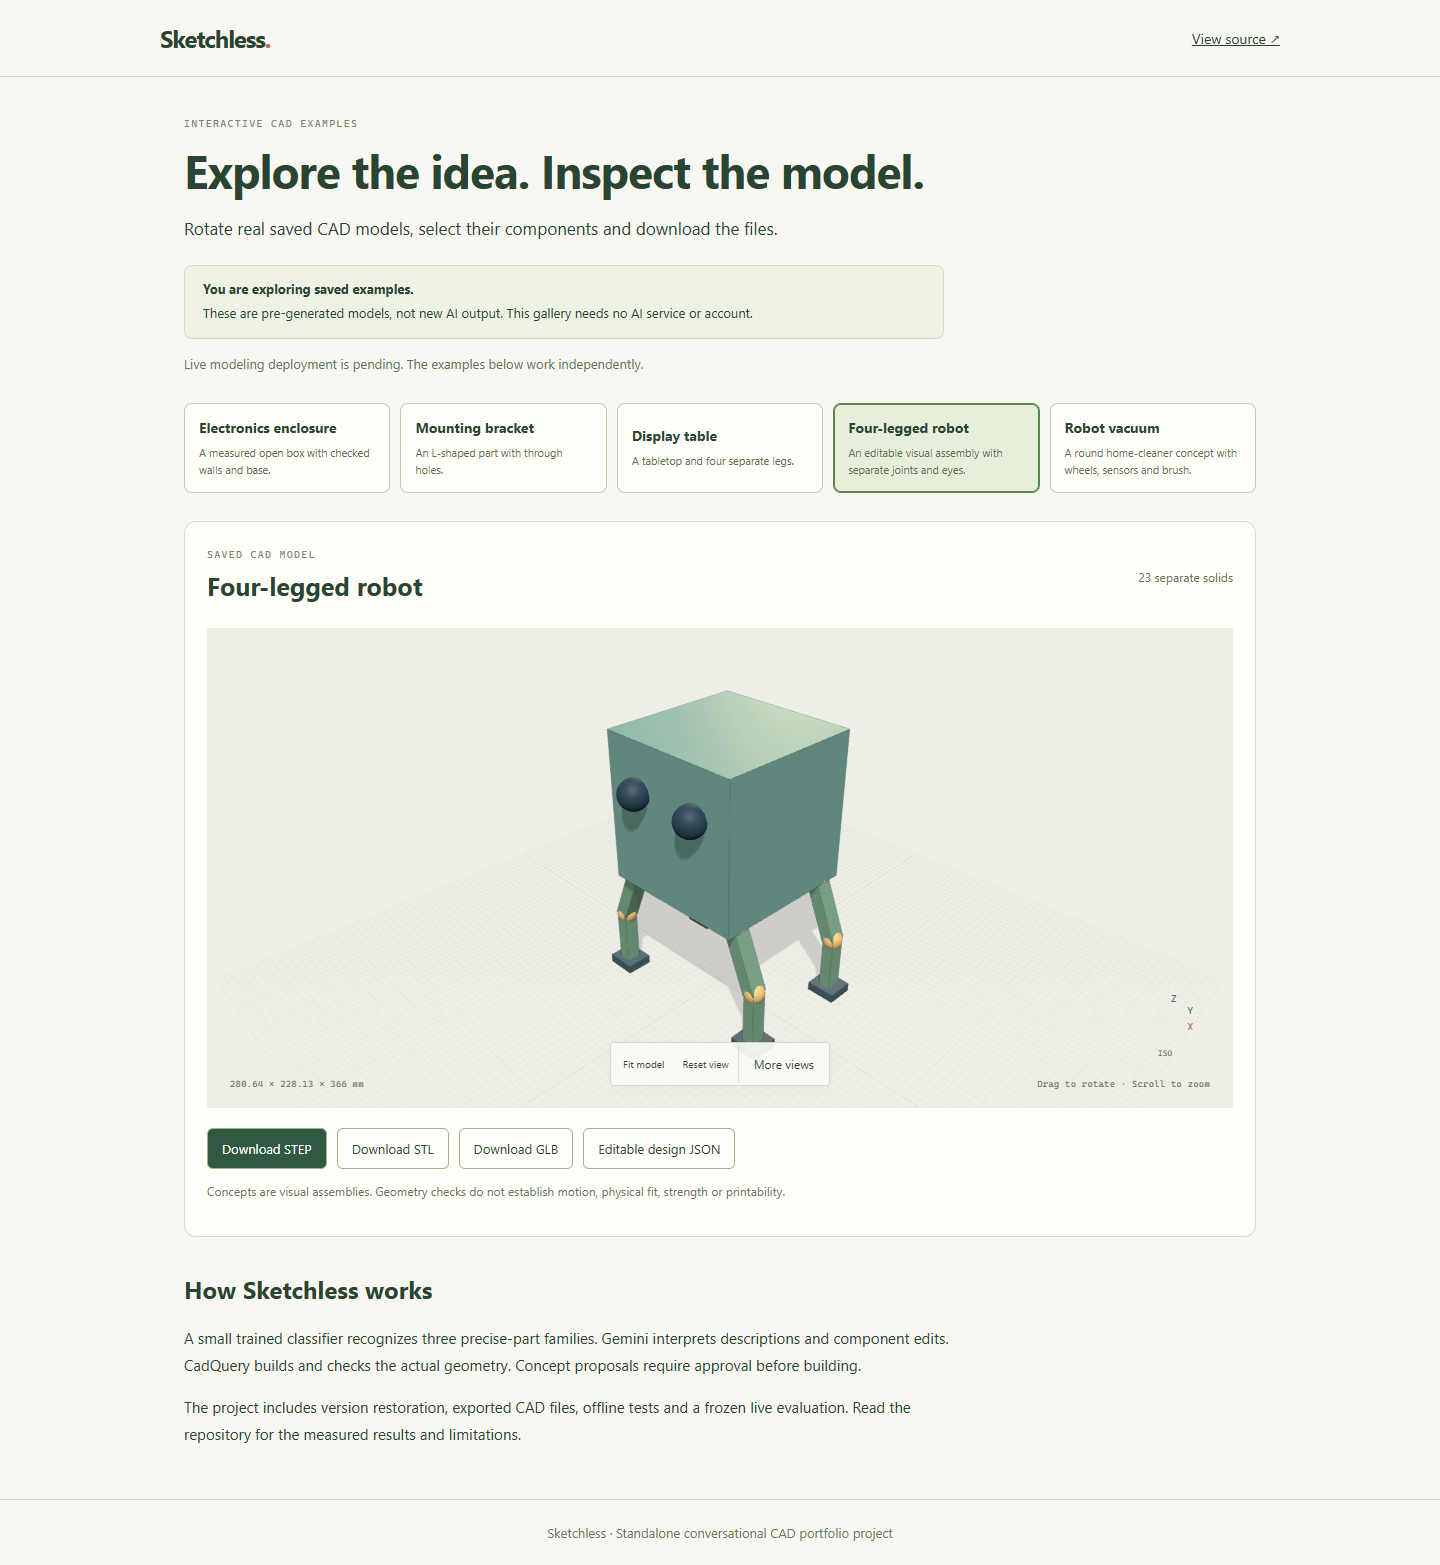
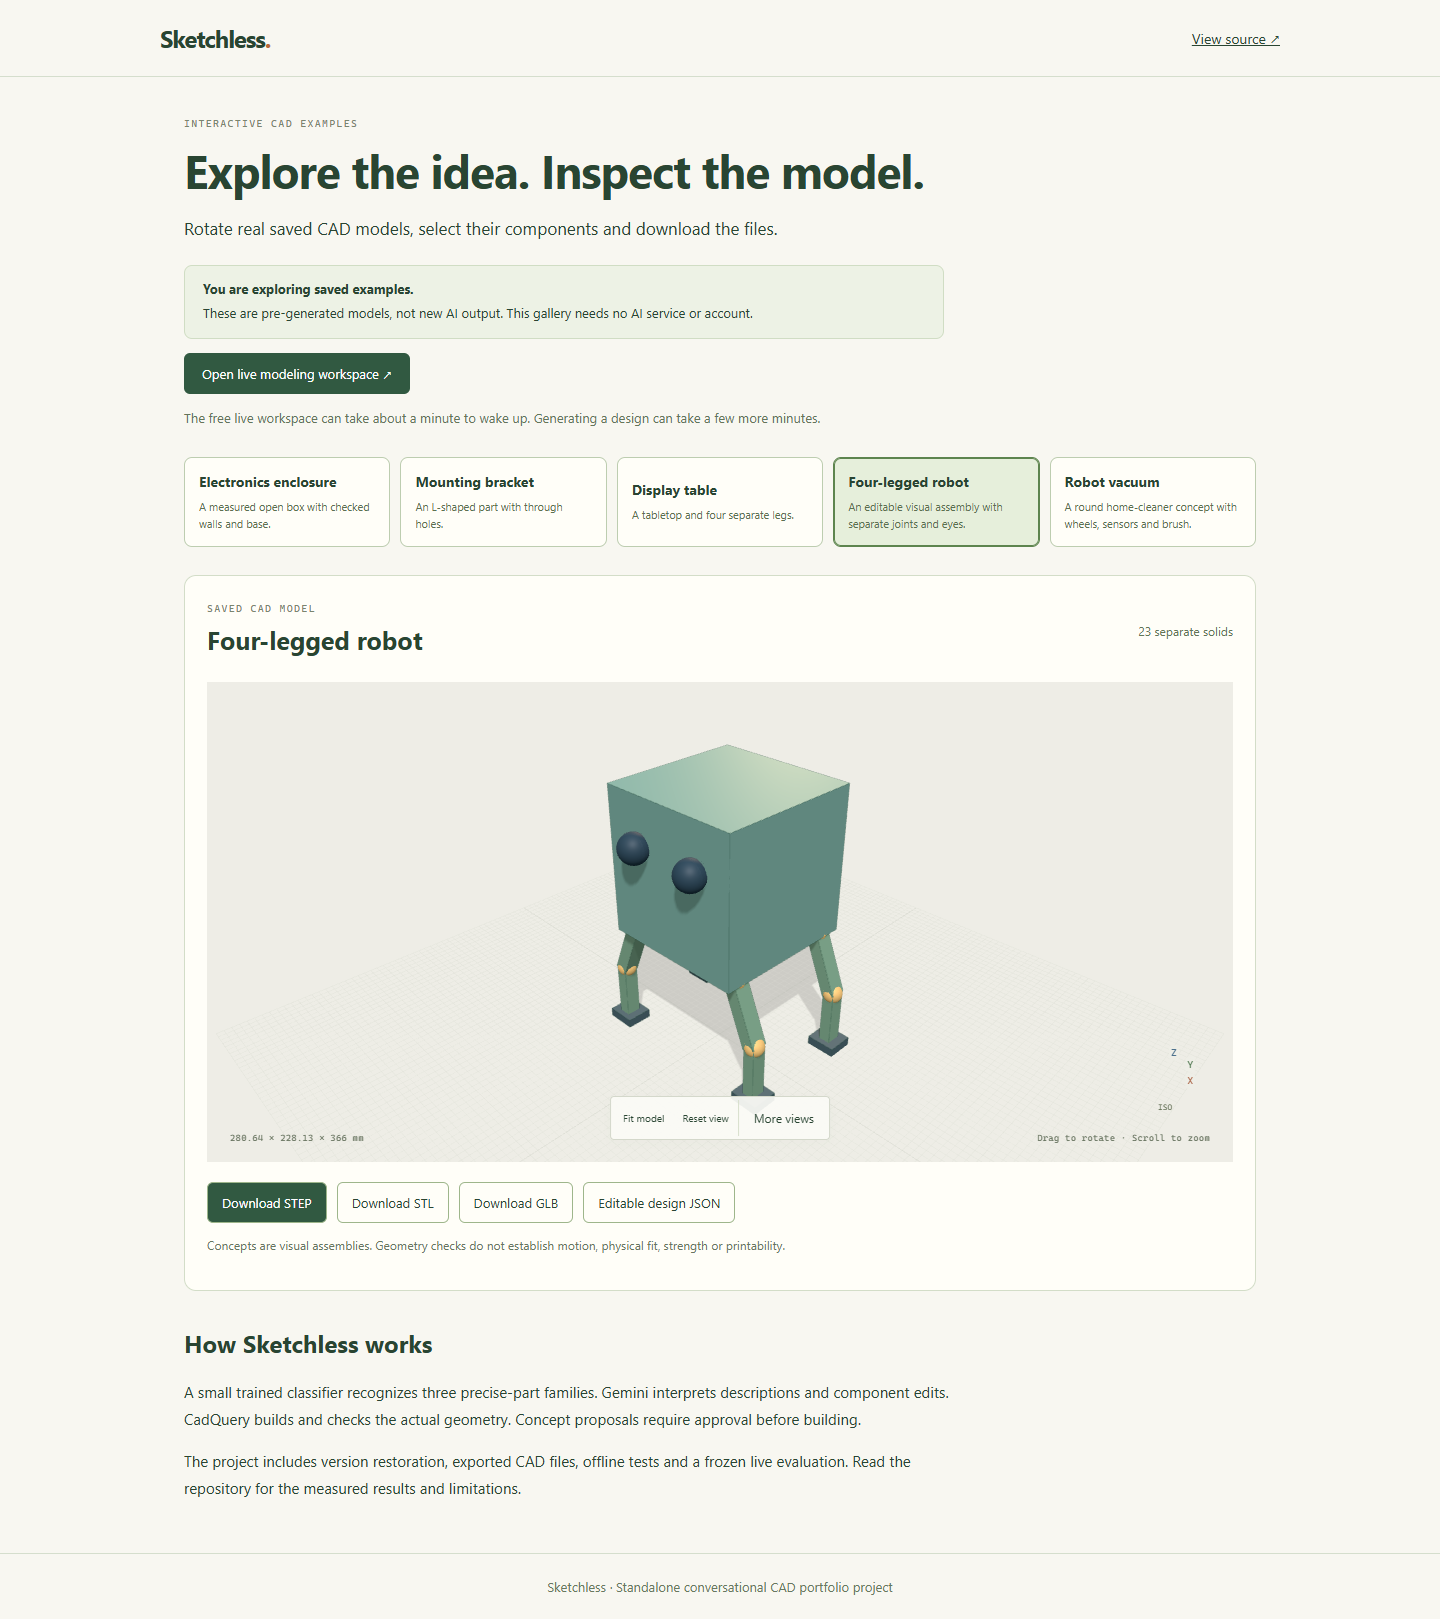
Record verified free hosted release and browser checks

diff --git a/docs/strictly-free-hosting.md b/docs/strictly-free-hosting.md
@@ -53,3 +53,5 @@ The 0.1-CPU check exposed intermittent 60-second CAD deadlines. Hosted worker ti
 [Actual hosted results](hosted-verification.json): four successful interpretation requests required five SDK attempts including one bounded repair. Both concept builds required explicit harness approval; two restorations required no model call. Selected-component color edits preserved the rest of the scene. The exhausted verification visitor was denied another interpretation before any additional SDK call, while its accepted CAD and downloads remained available. These development examples are not a new held-out accuracy score. Provider 429 handling has separate mocked coverage; the observed hosted limit was the application visitor allowance.
 
 The existing Render service was not modified. Free workspace usage allowances are shared, so account-level exhaustion can suspend the demo. No keep-alive pings, paid upgrades or Azure credit-consuming resources were enabled. The app-scoped secrets were installed only after explicit owner approval. Dedicated local management keys are not part of the hosted environment or public source.
+
+The bounded Free-profile [Linux report](linux-free-runtime-report.json) passed at 512 MiB and 0.1 CPU, with a measured 381,284,352-byte peak container footprint and 45-68 second sample builds. The isolated PostgreSQL suite passed 18 cases in the same profile. Actual hosted browser checks verified preview, STEP/GLB download, a mobile layout without horizontal overflow, no JavaScript errors and no backend credentials in API response bodies. [Hosted workspace screenshot](screenshots/hosted-workspace.png).
